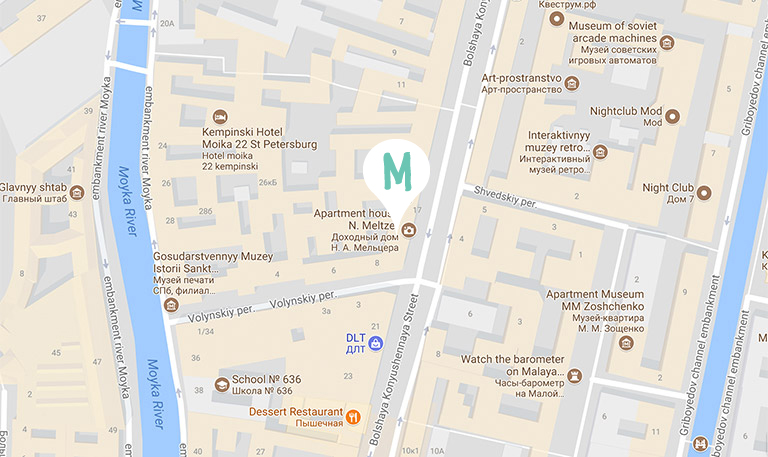
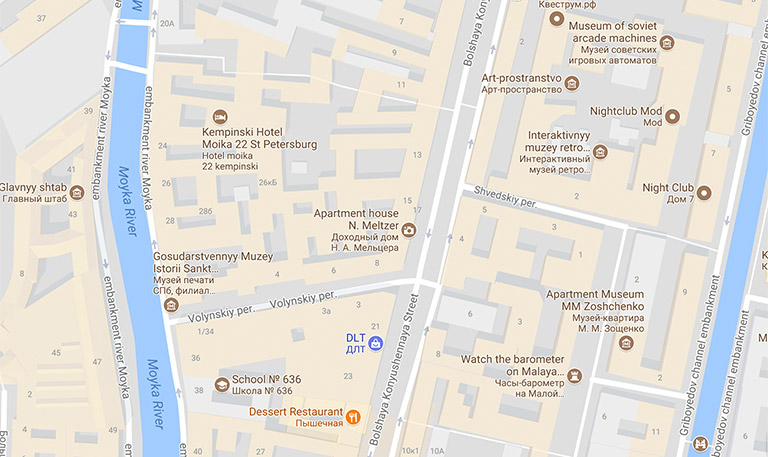
подправил сетку в формах

Changed region(s): [[0.4688, 0.3063, 0.5625, 0.4902]]

diff --git a/source/catalog.html b/source/catalog.html
@@ -10,7 +10,7 @@
     <header class="page-header">
       <div class="page-wrapper page-wrapper--header">
         <div class="page-header-logo-wrapper">
-          <a class="page-header__logo-link" href="./index.html">
+          <a class="page-header__logo-link link-mixin" href="./index.html">
             <picture>
               <source media="(min-width: 768px)" srcset="./img/logo-tablet.svg">
               <img class="page-header__logo" src="./img/logo-mobile.svg" width="86" height="35" alt="лого">
@@ -21,21 +21,21 @@
         <nav class="main-nav main-nav--none">
           <ul class="main-nav__list site-list site-list--tablet">
             <li class="site-list__item site-list--catalog">
-              <a class="site-list__link site-list__link--tablet site-list__link--catalog" href="./catalog.html">Каталог товаров</a>
+              <a class="site-list__link site-list__link--tablet site-list__link--catalog link-mixin" href="./catalog.html">Каталог товаров</a>
             </li>
             <li class="site-list__item site-list--knitting">
-              <a class="site-list__link site-list__link--tablet site-list__link--knitting" href="./form.html">Вязание на заказ</a>
+              <a class="site-list__link site-list__link--tablet site-list__link--knitting link-mixin" href="./form.html">Вязание на заказ</a>
             </li>
           </ul>
-          <a class="page-header__logo-desktop page-header__logo-desktop-link" href="./index.html">
+          <a class="page-header__logo-desktop page-header__logo-desktop-link link-mixin" href="./index.html">
             <img src="./img/logo-desktop.svg" width="149" height="72" alt="лого">
           </a>
           <ul class="main-nav__list site-list">
             <li class="site-list__item site-list--search">
-              <a class="site-list__link site-list__link--search" href="#">Поиск по сайту</a>
+              <a class="site-list__link site-list__link--search link-mixin" href="#">Поиск по сайту</a>
             </li>
             <li class="site-list__item site-list--basket">
-              <a class="site-list__link site-list__link--basket" href="#">Корзина: пока пуста</a>
+              <a class="site-list__link site-list__link--basket link-mixin" href="#">Корзина: пока пуста</a>
             </li>
           </ul>
         </nav>
@@ -46,13 +46,13 @@
         <div class="page-wrapper page-wrapper--page-header">
           <ul class="page-main__menu">
             <li class="page-main__menu-item">
-              <a class="page-main__menu-link page-main__menu-link--desktop" href="#">Новые поступления</a>
+              <a class="page-main__menu-link page-main__menu-link--desktop link-mixin" href="#">Новые поступления</a>
             </li>
             <li class="page-main__menu-item">
-              <a class="page-main__menu-link page-main__menu-link--desktop" href="#">Распродажа</a>
+              <a class="page-main__menu-link page-main__menu-link--desktop link-mixin" href="#">Распродажа</a>
             </li>
             <li class="page-main__menu-item">
-              <a class="page-main__menu-link page-main__menu-link--tablet" href="#">Бесплатная доставка по России</a>
+              <a class="page-main__menu-link page-main__menu-link--tablet link-mixin" href="#">Бесплатная доставка по России</a>
             </li>
           </ul>
           <h1 class="page-main__headline">Каталог товаров</h1>
@@ -65,9 +65,9 @@
             <article class="catalog-item">
               <a class="catalog-item__image-link" href="#">
                 <picture>
-                  <source media="(min-width: 1150px)" srcset="./img/photo-hare-desktop@1x.jpg">
-                  <source media="(min-width: 768px)" srcset="./img/photo-hare-tablet@1x.jpg">
-                  <img class="catalog-item__image" src="./img/photo-hare-mobile@1x.jpg" width="260" height="195" alt="Изображение товара">
+                  <source media="(min-width: 1150px)" srcset="./img/photo-hare-desktop@1x.jpg, ./img/photo-hare-desktop@2x.jpg 2x">
+                  <source media="(min-width: 768px)" srcset="./img/photo-hare-tablet@1x.jpg, ./img/photo-hare-tablet@2x.jpg 2x">
+                  <img class="catalog-item__image" src="./img/photo-hare-mobile@1x.jpg" srcset="./img/photo-hare-mobile@1x.jpg 2x" width="260" height="195" alt="Изображение товара">
                 </picture>
               </a>
               <div class="catalog-item__description">
@@ -85,9 +85,9 @@
             <article class="catalog-item">
               <a class="catalog-item__image-link" href="#">
                 <picture>
-                  <source media="(min-width: 1150px)" srcset="./img/photo-bowl-desktop@1x.jpg">
-                  <source media="(min-width: 768px)" srcset="./img/photo-bowl-tablet@1x.jpg">
-                  <img class="catalog-item__image" src="./img/photo-bowl-mobile@1x.jpg" width="260" height="195" alt="Изображение товара">
+                  <source media="(min-width: 1150px)" srcset="./img/photo-bowl-desktop@1x.jpg, ./img/photo-bowl-desktop@2x.jpg 2x">
+                  <source media="(min-width: 768px)" srcset="./img/photo-bowl-tablet@1x.jpg, ./img/photo-bowl-tablet@1x.jpg 2x">
+                  <img class="catalog-item__image" src="./img/photo-bowl-mobile@1x.jpg" srcset="./img/photo-bowl-mobile@2x.jpg 2x" width="260" height="195" alt="Изображение товара">
                 </picture>
               </a>
               <div class="catalog-item__description">
@@ -105,9 +105,9 @@
             <article class="catalog-item">
               <a class="catalog-item__image-link" href="#">
                 <picture>
-                  <source media="(min-width: 1150px)" srcset="./img/photo-toys-desktop@1x.jpg">
-                  <source media="(min-width: 768px)" srcset="./img/photo-toys-tablet@1x.jpg">
-                  <img class="catalog-item__image" src="./img/photo-toys-mobile@1x.jpg" width="260" height="195" alt="Изображение товара">
+                  <source media="(min-width: 1150px)" srcset="./img/photo-toys-desktop@1x.jpg, ./img/photo-toys-desktop@2x.jpg 2x">
+                  <source media="(min-width: 768px)" srcset="./img/photo-toys-tablet@1x.jpg, ./img/photo-toys-tablet@2x.jpg 2x">
+                  <img class="catalog-item__image" src="./img/photo-toys-mobile@1x.jpg" srcset="./img/photo-toys-mobile@2x.jpg 2x" width="260" height="195" alt="Изображение товара">
                 </picture>
               </a>
               <div class="catalog-item__description">
@@ -146,7 +146,9 @@
     </main>
     <footer class="page-footer">
       <div class="page-wrapper page-wrapper--footer">
-        <img class="page-footer__logo" src="./img/logo-footer.svg" width="102" height="34" alt="лого">
+        <a class="page-footer__link link-mixin" href="./index.html">
+          <img class="page-footer__logo" src="./img/logo-footer.svg" width="102" height="34" alt="лого">
+        </a>
         <ul class="social">
           <li class="social__item">
             <a href="#" class="social__item-link">Инстаграм

diff --git a/source/form.html b/source/form.html
@@ -10,7 +10,7 @@
     <header class="page-header">
       <div class="page-wrapper page-wrapper--header">
         <div class="page-header-logo-wrapper">
-          <a class="page-header__logo-link" href="./index.html">
+          <a class="page-header__logo-link link-mixin" href="./index.html">
             <picture>
               <source media="(min-width: 768px)" srcset="./img/logo-tablet.svg">
               <img class="page-header__logo" src="./img/logo-mobile.svg" width="86" height="35" alt="лого">
@@ -21,13 +21,13 @@
         <nav class="main-nav main-nav--none">
           <ul class="main-nav__list site-list site-list--tablet">
             <li class="site-list__item site-list--catalog">
-              <a class="site-list__link site-list__link--tablet site-list__link--catalog" href="./catalog.html">Каталог товаров</a>
+              <a class="site-list__link site-list__link--tablet site-list__link--catalog link-mixin" href="./catalog.html">Каталог товаров</a>
             </li>
             <li class="site-list__item site-list--knitting">
-              <a class="site-list__link site-list__link--tablet site-list__link--knitting" href="./form.html">Вязание на заказ</a>
+              <a class="site-list__link site-list__link--tablet site-list__link--knitting link-mixin" href="./form.html">Вязание на заказ</a>
             </li>
           </ul>
-          <a class="page-header__logo-desktop page-header__logo-desktop-link" href="./index.html">
+          <a class="page-header__logo-desktop page-header__logo-desktop-link link-mixin" href="./index.html">
             <img src="./img/logo-desktop.svg" width="149" height="72" alt="лого">
           </a>
           <ul class="main-nav__list site-list">
@@ -46,13 +46,13 @@
         <div class="page-wrapper page-wrapper--page-header">
           <ul class="page-main__menu">
             <li class="page-main__menu-item">
-              <a class="page-main__menu-link page-main__menu-link--desktop" href="#">Новые поступления</a>
+              <a class="page-main__menu-link page-main__menu-link--desktop link-mixin" href="#">Новые поступления</a>
             </li>
             <li class="page-main__menu-item">
-              <a class="page-main__menu-link page-main__menu-link--desktop" href="#">Распродажа</a>
+              <a class="page-main__menu-link page-main__menu-link--desktop link-mixin" href="#">Распродажа</a>
             </li>
             <li class="page-main__menu-item">
-              <a class="page-main__menu-link page-main__menu-link--tablet" href="#">Бесплатная доставка по России</a>
+              <a class="page-main__menu-link page-main__menu-link--tablet link-mixin" href="#">Бесплатная доставка по России</a>
             </li>
           </ul>
           <h1 class="page-main__headline">Вязание на заказ</h1>
@@ -126,15 +126,15 @@
               <div class="form__block-content form__block-content--name">
                 <div class="form__name-content-wrapper">
                   <span class="form__input-legend">Имя:</span>
-                  <input class="form__input form__input--name" type="text" placeholder="Введите ваше имя*" required>
+                  <input class="form__input form__input--name input-border" type="text" placeholder="Введите ваше имя*" required>
                 </div>
                 <div class="form__name-content-wrapper">
                   <span class="form__input-legend">Фамилия:</span>
-                  <input class="form__input form__input--name" type="text" placeholder="Укажите фамилию*" required>
+                  <input class="form__input form__input--name input-border" type="text" placeholder="Укажите фамилию*" required>
                 </div>
                 <div class="form__name-content-wrapper">
                   <span class="form__input-legend">Отчество:</span>
-                  <input class="form__input form__input--name" type="text" placeholder="Отчество, если желаете">
+                  <input class="form__input form__input--name input-border" type="text" placeholder="Отчество, если желаете">
                 </div>
               </div>
             </div>
@@ -143,11 +143,11 @@
             <div class="page-wrapper page-wrapper--form-contacts">
               <div class="form__contacts-content-wrapper">
                 <span class="form__block-title form__block-title--tel">ТЕЛ</span>
-                <input class="form__input form__input--contacts" type="tel" name="tel" pattern="(\+7[0-9]{10}|8[0-9]{10})" placeholder="+7 ХХХ ХХХ ХХ ХХ*" required>
+                <input class="form__input form__input--contacts input-border" type="tel" name="tel" pattern="(\+7[0-9]{10}|8[0-9]{10})" placeholder="+7 ХХХ ХХХ ХХ ХХ*" required>
               </div>
               <div class="form__contacts-content-wrapper">
                 <span class="form__block-title form__block-title--email">E-MAIL</span>
-                <input class="form__input form__input--contacts" type="email" placeholder="Ваш Email*" required>
+                <input class="form__input form__input--contacts input-border" type="email" placeholder="Ваш Email*" required>
               </div>
             </div>
           </div>
@@ -170,7 +170,9 @@
     </main>
     <footer class="page-footer">
       <div class="page-wrapper page-wrapper--footer">
-        <img class="page-footer__logo" src="./img/logo-footer.svg" width="102" height="34" alt="лого">
+        <a class="page-footer__link link-mixin" href="./index.html">
+          <img class="page-footer__logo" src="./img/logo-footer.svg" width="102" height="34" alt="лого">
+        </a>
         <ul class="social">
           <li class="social__item">
             <a href="#" class="social__item-link">Инстаграм

diff --git a/source/index.html b/source/index.html
@@ -17,19 +17,19 @@
         <nav class="main-nav main-nav--none">
           <ul class="main-nav__list site-list site-list--tablet">
             <li class="site-list__item site-list--catalog">
-              <a class="site-list__link site-list__link--tablet site-list__link--catalog" href="./catalog.html">Каталог товаров</a>
+              <a class="site-list__link site-list__link--tablet site-list__link--catalog link-mixin" href="./catalog.html">Каталог товаров</a>
             </li>
             <li class="site-list__item site-list--knitting">
-              <a class="site-list__link site-list__link--tablet site-list__link--knitting" href="./form.html">Вязание на заказ</a>
+              <a class="site-list__link site-list__link--tablet site-list__link--knitting link-mixin" href="./form.html">Вязание на заказ</a>
             </li>
           </ul>
           <img class="page-header__logo-desktop" src="./img/logo-desktop.svg" width="149" height="72" alt="лого">
           <ul class="main-nav__list site-list">
             <li class="site-list__item site-list--search">
-              <a class="site-list__link site-list__link--search" href="#">Поиск по сайту</a>
+              <a class="site-list__link site-list__link--search link-mixin" href="#">Поиск по сайту</a>
             </li>
             <li class="site-list__item site-list--basket">
-              <a class="site-list__link site-list__link--basket" href="#">Корзина: пока пуста</a>
+              <a class="site-list__link site-list__link--basket link-mixin" href="#">Корзина: пока пуста</a>
             </li>
           </ul>
         </nav>
@@ -41,13 +41,13 @@
         <div class="page-wrapper page-wrapper--promo">
           <ul class="page-main__menu">
             <li class="page-main__menu-item">
-              <a class="page-main__menu-link page-main__menu-link--desktop" href="#">Новые поступления</a>
+              <a class="page-main__menu-link page-main__menu-link--desktop link-mixin" href="#">Новые поступления</a>
             </li>
             <li class="page-main__menu-item">
-              <a class="page-main__menu-link page-main__menu-link--desktop" href="#">Распродажа</a>
+              <a class="page-main__menu-link page-main__menu-link--desktop link-mixin" href="#">Распродажа</a>
             </li>
             <li class="page-main__menu-item">
-              <a class="page-main__menu-link page-main__menu-link--tablet" href="#">Бесплатная доставка по России</a>
+              <a class="page-main__menu-link page-main__menu-link--tablet link-mixin" href="#">Бесплатная доставка по России</a>
             </li>
           </ul>
           <div class="promo-headline-wrapper">
@@ -92,9 +92,9 @@
             </li>
             </ul>
             <picture>
-              <source media="(min-width: 1150px)" srcset="./img/triple-set-desktop@1x.jpg">
-              <source media="(min-width: 375px)" srcset="./img/triple-set-tablet@1x.jpg">
-              <img class="top-product__image" width="260" height="315" src="./img/triple-set-mobile@1x.jpg"  alt="изображение продукта">
+              <source media="(min-width: 1150px)" srcset="./img/triple-set-desktop@1x.jpg, ./img/triple-set-desktop@2x.jpg 2x">
+              <source media="(min-width: 375px)" srcset="./img/triple-set-tablet@1x.jpg, ./img/triple-set-tablet@2x.jpg 2x">
+              <img class="top-product__image" width="260" height="315" src="./img/triple-set-mobile@1x.jpg" srcset="./img/triple-set-mobile@2x.jpg 2x"  alt="изображение продукта">
             </picture>
             <span class="top-product__price">Цена: 990 руб.</span>
             <a class="top-product__button button" href="#">ЗАКАЗАТЬ</a>

diff --git a/source/less/form.less b/source/less/form.less
@@ -134,6 +134,7 @@
     border: none;
     border-bottom: 2px solid #000000;
     background-color: rgba(0, 0, 0, 0);
+    outline: none;
   }
 
   &__input--name {
@@ -149,6 +150,13 @@
     padding: 16px;
 
     border: 2px solid @black;
+    outline: none;
+  }
+
+  &__add:hover,
+  &__add:active {
+    border: 2px solid @green;
+
   }
 
   &__add::placeholder {
@@ -219,7 +227,8 @@
     }
 
     &__block-title {
-      width: 225px;
+      min-width: 130px;
+      max-width: 600px;
       padding-top: 18px;
       padding-right: 10px;
     }
@@ -352,7 +361,8 @@
     }
 
     &__block-title {
-      width: 130px;
+      min-width: 115px;
+      max-width: 600px;
     }
 
     &__block--type {

diff --git a/source/less/contacts.less b/source/less/contacts.less
@@ -53,6 +53,16 @@
     background-position: center;
   }
 
+  &__map::after {
+    .before-after(50%; initial; initial; 50%);
+
+    .size(67px; 100px);
+    margin-top: -89px;
+    margin-left: -20px;
+
+    .bi("icon-map-pin.svg");
+  }
+
   &__button {
     display: block;
     max-width: 260px;
@@ -124,10 +134,6 @@
 
     &__map {
       .size(768px; 457px);
-    }
-
-    &__map::after {
-      .before-after(145px; initial; initial; 360px);
     }
 
     &__button {

diff --git a/source/less/button.less b/source/less/button.less
@@ -9,3 +9,13 @@
   border: 2px solid @content-text-color;
   background-color: @white;
 }
+
+.button:hover {
+  background-color: @content-text-color;
+  color: @white;
+}
+
+.button:active {
+  background-color: @content-text-color;
+  color: @white-2;
+}

diff --git a/source/less/mixin-hover.less b/source/less/mixin-hover.less
@@ -1,0 +1,12 @@
+.link-mixin:hover {
+  opacity: 0.6;
+}
+
+.link-mixin:active {
+  opacity: 0.3;
+}
+
+.input-border:hover,
+.input-border:active {
+  border-bottom: 2px solid @green;
+}

diff --git a/source/less/variables.less b/source/less/variables.less
@@ -7,6 +7,7 @@
 @content-text-color: #444444;
 @black: #000000;
 @white: #ffffff;
+@white-2: rgba(255, 255, 255, 0.3);
 @tp: rgba(0, 0, 0, 0);
 
 

diff --git a/source/less/page-wrapper.less b/source/less/page-wrapper.less
@@ -131,6 +131,6 @@
   }
 
   .page-wrapper--form-note-button {
-    padding: 0 225px;
+    padding: 0 175px;
   }
 }

diff --git a/source/less/style.less b/source/less/style.less
@@ -22,3 +22,4 @@
 @import "blog.less";
 @import "blog-item.less";
 @import "form.less";
+@import "mixin-hover";
